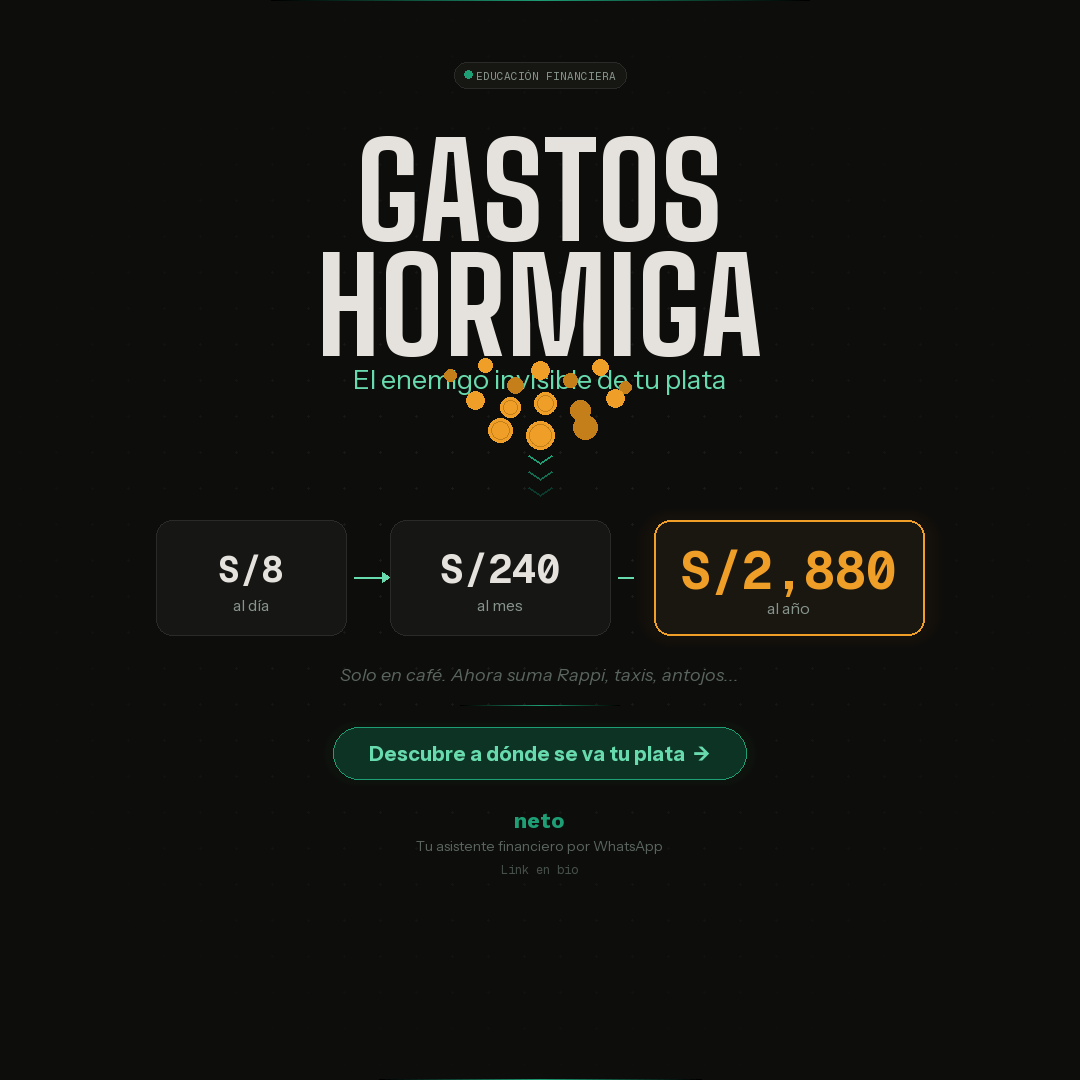
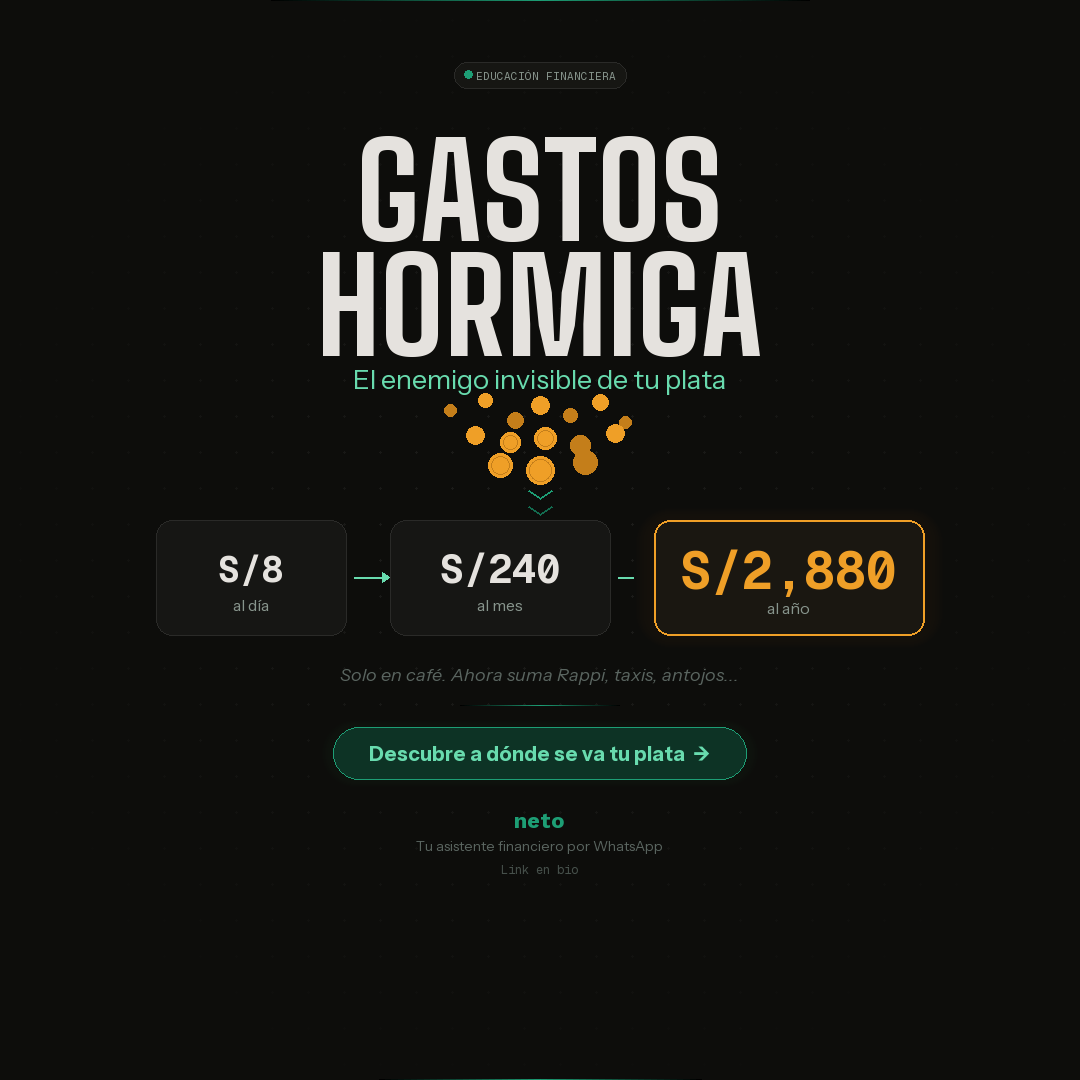
fix: ortografía post 1 + monedas no tapan subtítulo

Changed region(s): [[0.3972, 0.3361, 0.5806, 0.4583]]

diff --git a/marketing/posts/01-gastos-hormiga.py b/marketing/posts/01-gastos-hormiga.py
@@ -92,7 +92,7 @@ ct("El enemigo invisible de tu plata", f_sub, hy + 250, GREEN_L)
 
 # ── Coin rain visual (abstract, geometric) ──
 # Scattered coins falling — sizes increase top to bottom
-rain_y = 395
+rain_y = 430
 cx = W // 2
 
 coins = [
